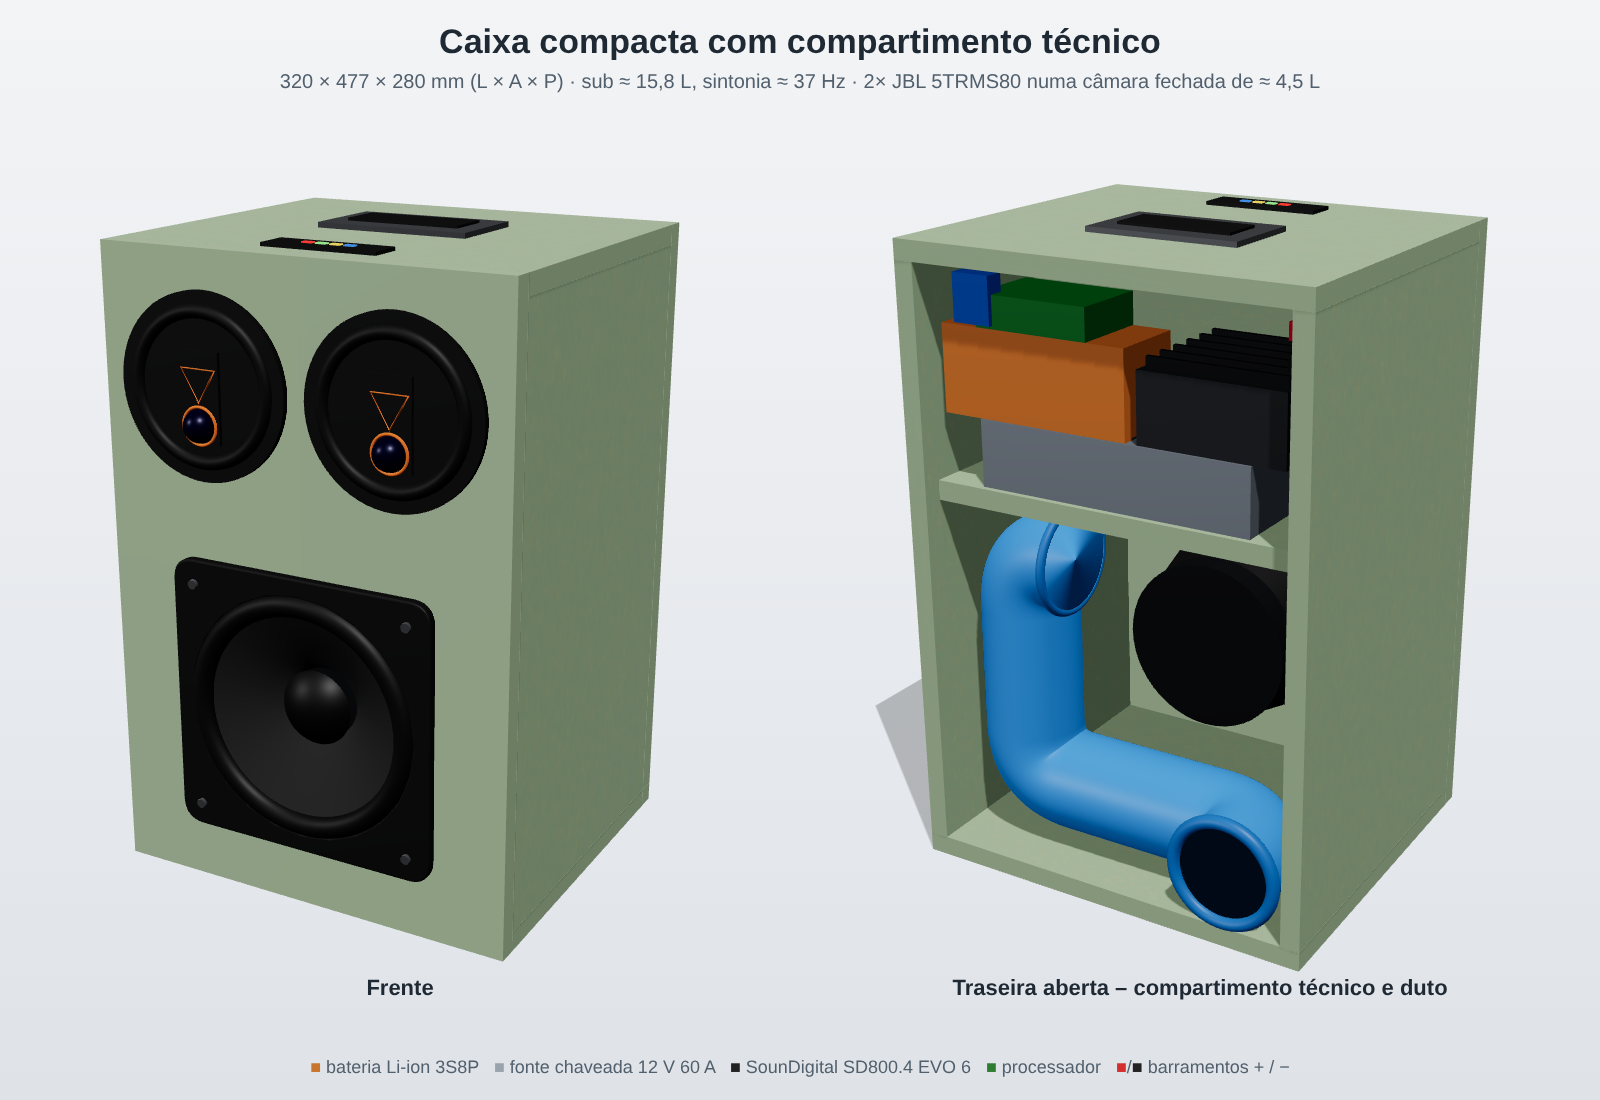
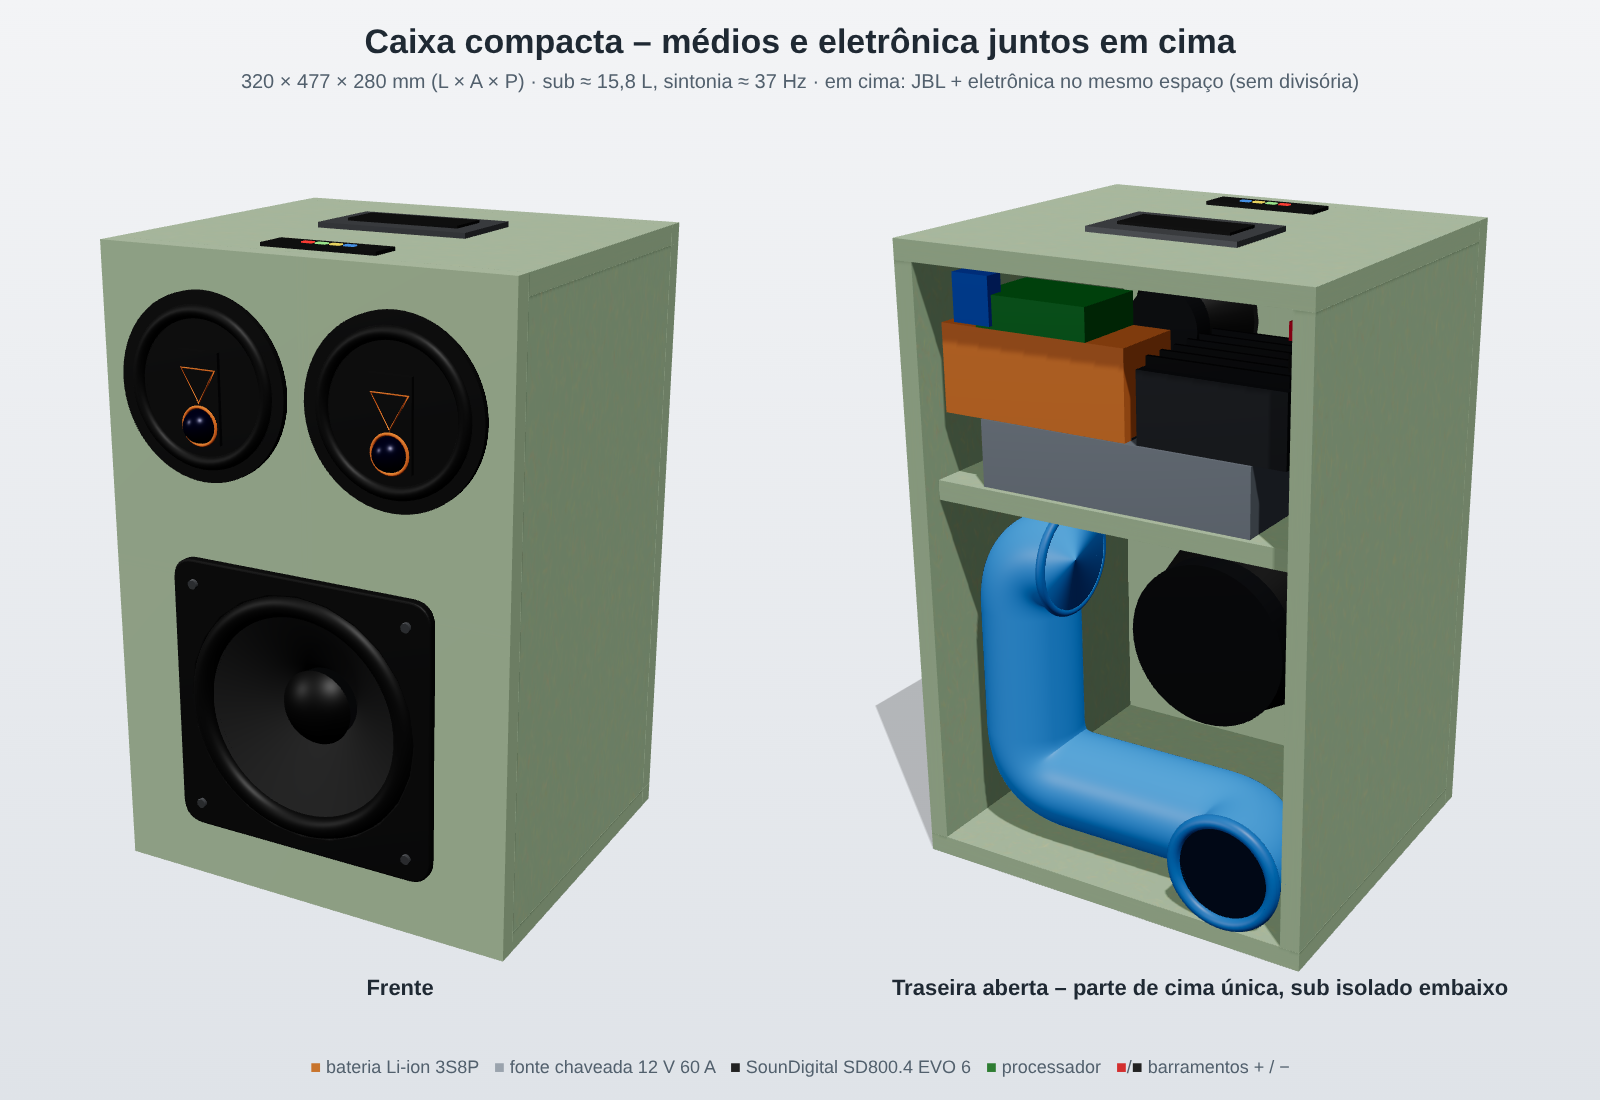
Junta médios e eletrônica na parte de cima da caixa compacta
Claude-Session: https://claude.ai/code/session_01Xqr2b8JS1uj39tzQWZP4xF

Changed region(s): [[0.1562, 0.0309, 0.8438, 0.0927], [0.5625, 0.8655, 0.9375, 0.9273], [0.6875, 0.2473, 0.8125, 0.3091]]

diff --git a/ferramentas/render3d/combo.html b/ferramentas/render3d/combo.html
@@ -6,10 +6,10 @@ body{margin:0;width:1600px;height:1100px;background:linear-gradient(#f3f4f6,#dfe
 .l{position:absolute;top:975px;width:800px;text-align:center;font-size:22px;font-weight:bold;color:#1f2933}
 #f{position:absolute;bottom:22px;width:100%;text-align:center;font-size:18px;color:#52606d}
 </style></head><body>
-<div id="t">Caixa compacta com compartimento técnico</div>
-<div id="s">320 × 477 × 280 mm (L × A × P) · sub ≈ 15,8 L, sintonia ≈ 37 Hz · 2× JBL 5TRMS80 numa câmara fechada de ≈ 4,5 L</div>
+<div id="t">Caixa compacta – médios e eletrônica juntos em cima</div>
+<div id="s">320 × 477 × 280 mm (L × A × P) · sub ≈ 15,8 L, sintonia ≈ 37 Hz · em cima: JBL + eletrônica no mesmo espaço (sem divisória)</div>
 <div class="c" id="a" style="left:0"></div><div class="c" id="b" style="left:800px"></div>
-<div class="l" style="left:0">Frente</div><div class="l" style="left:800px">Traseira aberta – compartimento técnico e duto</div>
+<div class="l" style="left:0">Frente</div><div class="l" style="left:800px">Traseira aberta – parte de cima única, sub isolado embaixo</div>
 <div id="f"><span style='color:#c8742c'>■</span> bateria Li-ion 3S8P &nbsp; <span style='color:#9aa3ad'>■</span> fonte chaveada 12 V 60 A &nbsp; <span style='color:#222'>■</span> SounDigital SD800.4 EVO 6 &nbsp; <span style='color:#2e7d32'>■</span> processador &nbsp; <span style='color:#d32f2f'>■</span>/<span style='color:#222'>■</span> barramentos + / −</div>
 <script src="node_modules/three/build/three.min.js"></script>
 <script>
@@ -30,7 +30,6 @@ function scene(open){
  panel(W,T,D-T,0,-H/2+T/2,-T/2);panel(W,T,D-T,0,H/2-T/2,-T/2);
  panel(T,H-2*T,D-T,-W/2+T/2,0,-T/2);panel(T,H-2*T,D-T,W/2-T/2,0,-T/2);
  panel(W-2*T,T,D-2*T,0,divY,0); // divisória horizontal
- panel(W-2*T,upH,T,0,jY,bayZ1+T/2); // parede entre câmara dos JBL e compartimento técnico
  if(!open){const bk=rectShape();const p=new THREE.Path();p.absarc(X0(24.5),Y0(4.5),3.75,0,Math.PI*2,true);bk.holes.push(p);
   const b=new THREE.Mesh(new THREE.ExtrudeGeometry(bk,{depth:T,bevelEnabled:false}),mdf);b.position.z=-D/2;g.add(b);}
  const black=new THREE.MeshStandardMaterial({color:0x1c1c1c,roughness:0.6,metalness:0.2});

diff --git a/notas/projeto-compacto.md b/notas/projeto-compacto.md
@@ -90,3 +90,12 @@
   - Câmara do sub: interno 290 × 272 × 250 mm, ≈ 15,8 L líquidos, com duto de ≈ 48 cm.
   - Câmara dos JBL: na frente de cima, 290 × 160 × 110 mm (≈ 4,5 L líquidos).
   - Compartimento técnico: atrás dela, 290 × 160 × 125 mm, com a fonte deitada embaixo e, por cima, o amplificador e a bateria 3S8P; o processador fica sobre a bateria.
+
+## Decisão: médios e eletrônica juntos em cima (sem divisória)
+- A parte de cima (interno 290 × 160 × 250 mm, ≈ 11,6 L) é um espaço único: os JBL na frente e a eletrônica atrás. Os equipamentos ocupam ≈ 3,5 L e sobram ≈ 8 L de ar para os médios, o que é suficiente.
+- **A divisória horizontal entre a parte de cima e o sub continua obrigatória e vedada**, com cola e silicone e passagem de cabos com prensa-cabo ou silicone, para não estragar a sintonia.
+- **Calor:** a fonte e o amplificador precisam de ventilação.
+  - Grelha na tampa traseira e uma ventoinha de 12 V puxando ar para fora.
+  - Com o passa-altas de 100–120 Hz, a parte de cima ventilada não prejudica os JBL, que são triaxiais automotivos feitos para porta de carro.
+- **Bateria:** longe da saída de ar quente da fonte e do amplificador (Li-ion não gosta de calor acima de ~45 °C).
+- Tudo preso com parafuso e coxim de borracha (vibração do sub). Não cobrir a ventilação com espuma acústica; a espuma vai só atrás dos JBL.
